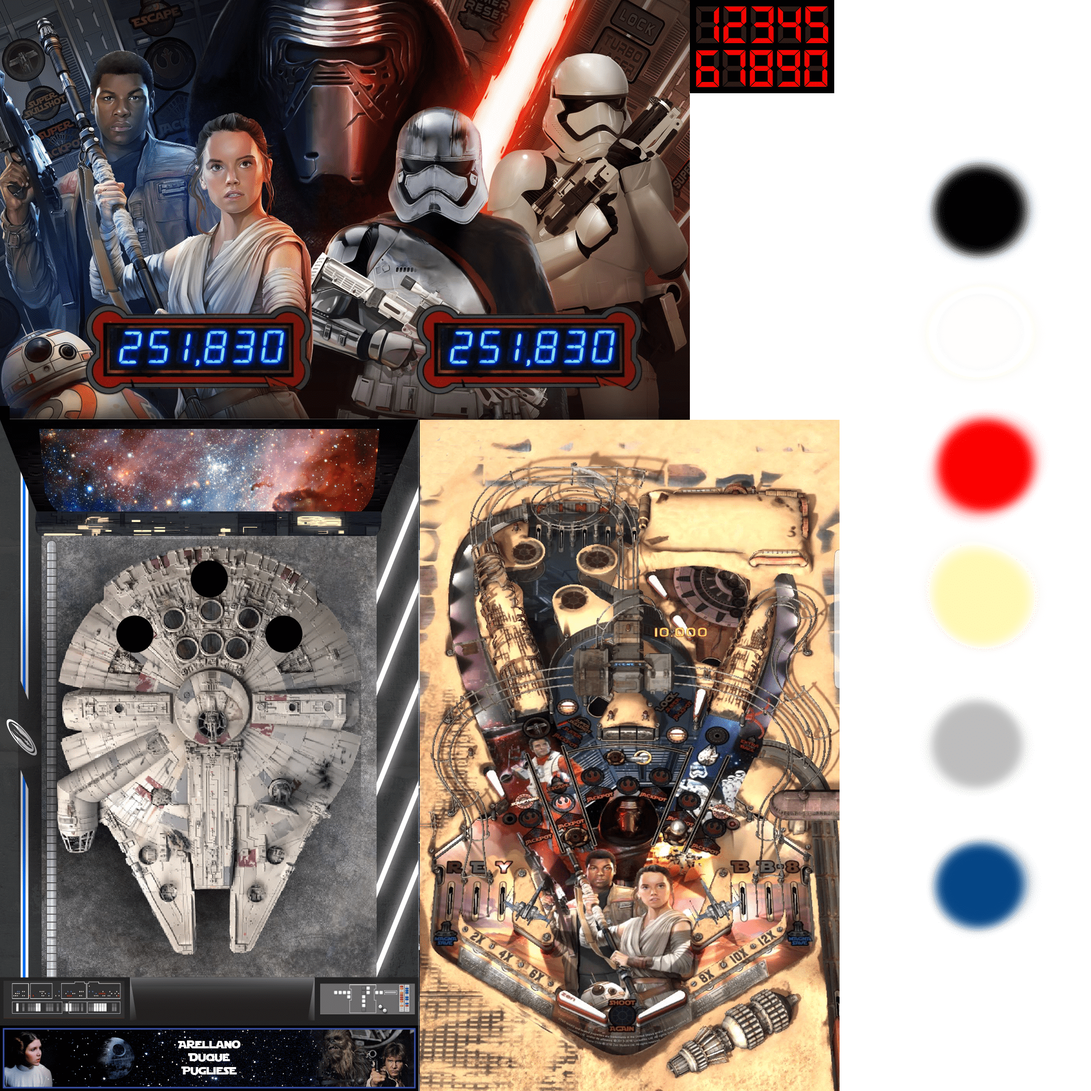
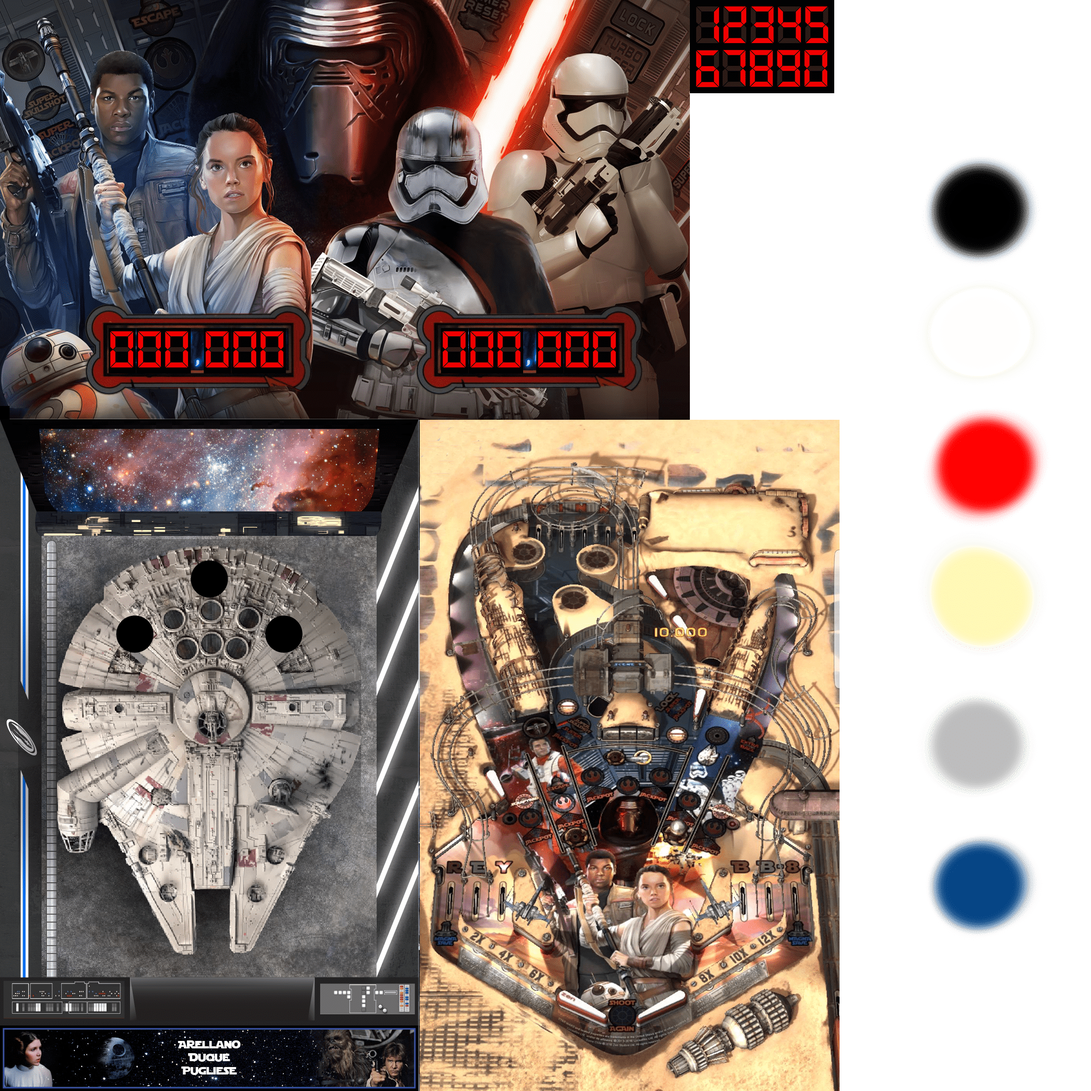
[feat] Scoreboard implemented

diff --git a/draw.js b/draw.js
@@ -15,13 +15,15 @@ var ballPushed = false;
 var ball;
 var flipperLeft;
 var flipperRight;
+var highScores = {}
+var actualScores = {}
 
 var objectKeys = [
     "body", "ball", 
     "leftFlipper", "rightFlipper" , 
     "bumper1" , "bumper2" , "bumper3" , "bumper4", "puller" , 
     "dr1" , "dr2" , "dr3" , "dr4" , "dr5" , "dr6",
-    "dl1" , "dl2" , "dl3" , "dl4" , "dl5" , "dl6"
+    "dl1" , "dl2" , "dl3" , "dl4" , "dl5" , "dl6",
 ]
 
 var ballx = -2.5;
@@ -88,6 +90,8 @@ const BALL_LEFT = "ArrowLeft";
 const BALL_DOWN = "ArrowDown";
 const BALL_UP = "ArrowUp";
 const PULLER_PUSH = " ";
+
+const digitsUV = [[0.735309, 0.956854, 0.760579, 0.918019, 0.760579, 0.956854, 0.735309, 0.918019],[0.636297, 0.996017, 0.661567, 0.957183, 0.661567, 0.996017, 0.636297, 0.957183],[0.660956, 0.996505, 0.686226, 0.957671, 0.686226, 0.996505, 0.660956, 0.957671], [0.685614, 0.996261, 0.710884, 0.957427, 0.710884, 0.996261, 0.685614, 0.957427],[0.710760, 0.996749, 0.736030, 0.957915, 0.736030, 0.996749, 0.710760, 0.957915],[0.735907, 0.996749, 0.761177, 0.957915, 0.761177, 0.996749, 0.735907, 0.957915],[0.635321, 0.956466, 0.660591, 0.917632, 0.660591, 0.956466, 0.635321, 0.917632], [0.660705, 0.956272, 0.685975, 0.917438, 0.685975, 0.956272, 0.660705, 0.917438], [0.684927, 0.956466, 0.710197, 0.917632, 0.710197, 0.956466, 0.684927, 0.917632],[0.710118, 0.956466, 0.735388, 0.917632, 0.735388, 0.956466, 0.710118, 0.917632]];
 
 //Key handlers
 function keyDownHandler(event){
@@ -359,6 +363,10 @@ async function main(){
         let vao = gl.createVertexArray();
         gl.bindVertexArray(vao);
         vaos[key] = vao;
+
+        if(key.includes('dl') || key.includes('dr')) {
+            mesh.textures = digitsUV[0];
+        }
     
         var positionBuffer = gl.createBuffer();
         gl.bindBuffer(gl.ARRAY_BUFFER, positionBuffer);
@@ -430,6 +438,11 @@ function drawScene(){
 
     let currentTime = Date.now();
     if(currentTime - time > dt){
+        let scored = false
+        let addS = isPlaying ? 10 : 0
+        let Sdigits = ((score + addS) + "").padStart(6, "0").split('').reverse()
+        let Hdigits = (highScore + "").padStart(6, "0").split('').reverse()
+
         time = currentTime;
         // clear scene
         gl.clearColor(0.0, 0.0, 0.0, 0.0);
@@ -461,7 +474,7 @@ function drawScene(){
         flipperLeft.update();
         if(ballPushed){
             ball.update();
-            ball.collides(walls, bumpers, puller);
+            scored = ball.collides(walls, bumpers, puller);
             flipperLeft.collision(ball);
             flipperRight.collision(ball);
             if(!isPlaying){
@@ -470,9 +483,9 @@ function drawScene(){
         }
         
         
-        
-        
-        
+
+
+
         //if(ball.z < 0) ball.applyForce(0, 0.001); 
 
         // compose view and light
@@ -485,6 +498,13 @@ function drawScene(){
 
         for(const key of objectKeys) {
             let mesh = meshes[key];
+
+            if(scored || !isPlaying) {
+                var digit = parseInt(key[2]) - 1
+                if(key.includes('dl')) mesh.textures = digitsUV[parseInt(Hdigits[digit])]
+                if(key.includes('dr')) mesh.textures = digitsUV[parseInt(Sdigits[digit])]
+            }
+
             var worldViewMatrix = utils.multiplyMatrices(viewMatrix, worldMatrices[key]);
             var projectionMatrix = utils.multiplyMatrices(perspectiveMatrix, worldViewMatrix);
 
@@ -506,9 +526,9 @@ function drawScene(){
             gl.uniformMatrix4fv(program.WVPmatrixUniform, gl.FALSE, utils.transposeMatrix(projectionMatrix));	
             gl.uniformMatrix4fv(program.WmatrixUniform, gl.FALSE, utils.transposeMatrix(worldMatrices[key]));	
 
-            //gl.activeTexture(gl.TEXTURE0);
-            //gl.bindTexture(gl.TEXTURE_2D, texture);
-            gl.uniform1i(program.textureUniform, 0);
+                
+            gl.bufferData(gl.ARRAY_BUFFER, new Float32Array(mesh.textures), gl.STATIC_DRAW);
+            gl.vertexAttribPointer(program.textureCoordAttribute, 2, gl.FLOAT, false, 0, 0);
 
             
             gl.bindVertexArray(vaos[key]);

diff --git a/model/physics.js b/model/physics.js
@@ -11,6 +11,7 @@ const MAX_SPEED_DOWN = 0.15;
 
 let lives = 3;
 let score = 0;
+let highScore = 0
 
 class Ball {
     //BALL ONLY MOVES IN:
@@ -106,6 +107,7 @@ class Ball {
     }
     
     collides(walls, bumpers, puller){
+        let scored = false
         for(var i=0; i < walls.length; i++) {
             // logic goes here
 
@@ -141,6 +143,8 @@ class Ball {
                 if(this.x <= walls[i].l1 && this.x >= walls[i].l2){
                     console.log('game over');
                     lives--;
+                    if(score > highScore) highScore = score
+                    score = 0
                     var lives_disp = document.getElementById("lives-display");
                     lives_disp.innerHTML = lives;
                     puller.initialPos();
@@ -186,11 +190,14 @@ class Ball {
                 this.xSpeed = newSpeed[0] * BUMPER_BOUNCE;
                 this.zSpeed = newSpeed[1] * BUMPER_BOUNCE;
 
+
+                scored = true
                 score += 10;
             }
 
         }
-        
+
+        return scored
     }
 }
 
